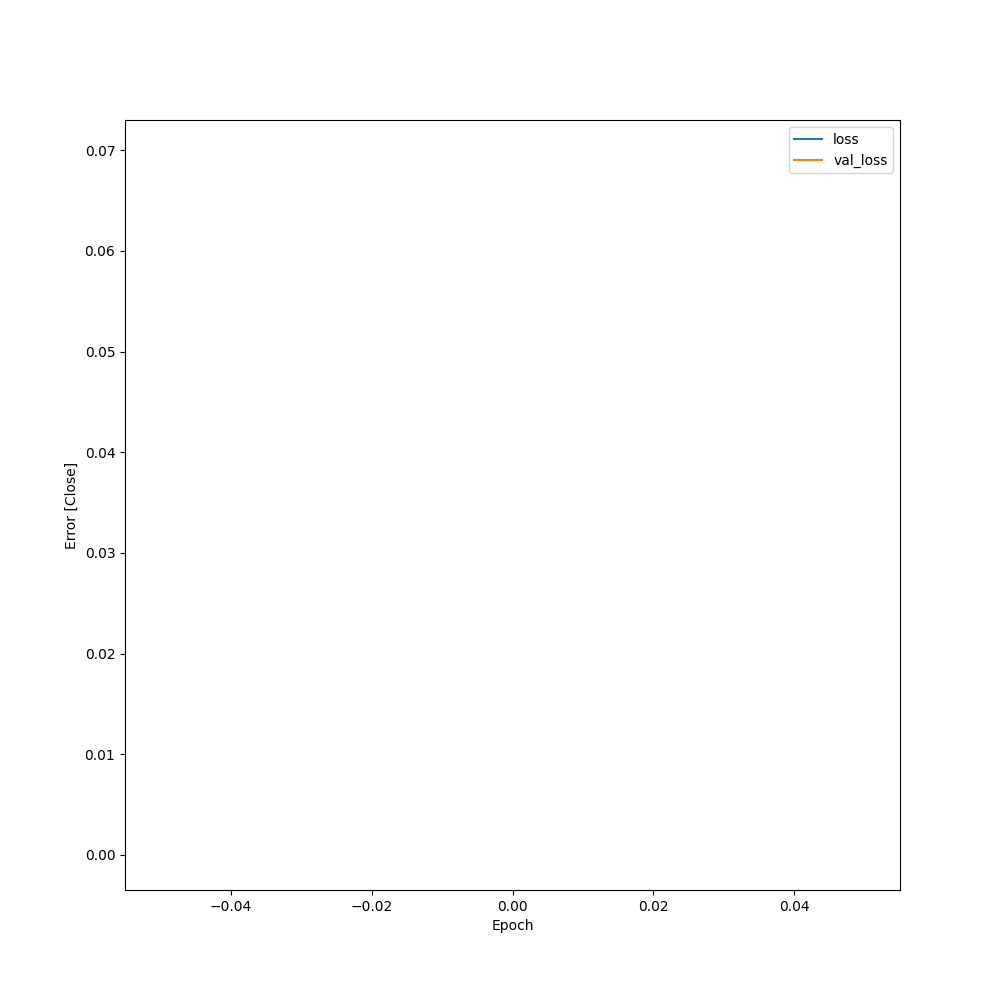
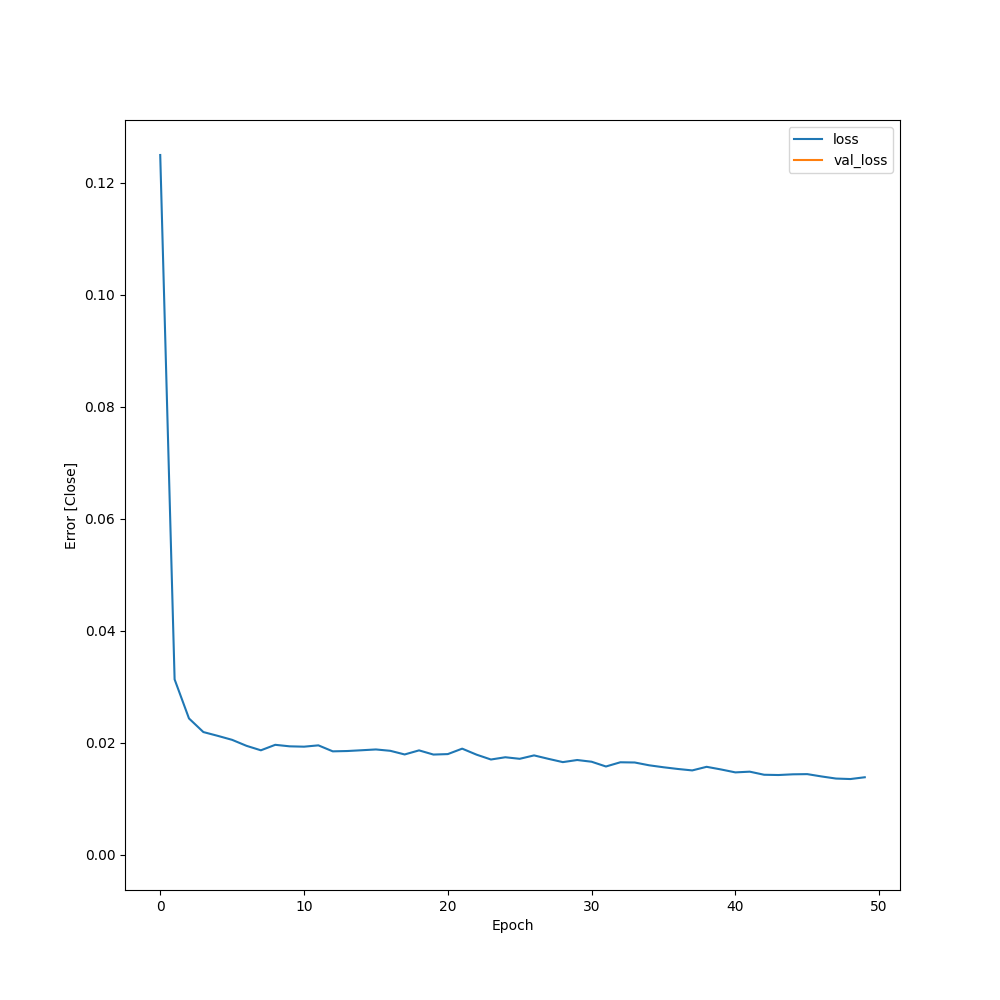
EDIT epochs and model shape

diff --git a/src/polygonapi.py b/src/polygonapi.py
@@ -39,16 +39,19 @@ def main():
         print(f"Processing pair: {pair}")
         proceed(pair)
 
-def model_1(n_steps_in, n_steps_out, n_features, units=32):
+def model_1(n_steps_in, n_steps_out, n_features, units=64):
     model = Sequential()
     model.add(LSTM(units, activation='tanh', return_sequences=True, input_shape=(n_steps_in, n_features)))
-    model.add(LSTM(units - 16, activation='tanh', return_sequences=False))
+    model.add(LSTM(units - 32, activation='tanh', return_sequences=False))
     model.add(RepeatVector(n_steps_out))
-    model.add(LSTM(units - 16, activation='tanh', return_sequences=True))
+    model.add(LSTM(units - 32, activation='tanh', return_sequences=True))
     model.add(LSTM(units, activation='tanh', return_sequences=True))
     model.add(TimeDistributed(Dense(units, activation='relu')))
+    model.add(Dropout(0.2))
     model.add(TimeDistributed(Dense(units, activation='relu')))
+    model.add(Dropout(0.2))
     model.add(TimeDistributed(Dense(units, activation='relu')))
+    model.add(Dropout(0.2))
     model.add(TimeDistributed(Dense(1, activation='linear')))
     model.build(input_shape=(n_steps_in, n_features))
     return model
@@ -289,12 +292,12 @@ def proceed(pair: str):
     # The dataset knows the number of features, e.g. 2
     n_features = X.shape[2]
     # Define model
-    model = model_1(n_steps_in, n_steps_out, n_features, units=32)
+    model = model_1(n_steps_in, n_steps_out, n_features)
     #Fit model
     opt = tf.keras.optimizers.Adam(learning_rate=0.001)
     model.compile(optimizer=opt, loss='mae')
     model.summary()
-    fit = model.fit(X, y, epochs=50, batch_size=32)
+    fit = model.fit(X, y, epochs=100, batch_size=32)
     # Plot loss
     plot_loss(fit.history['loss'], 0, pair)
     # Take n_steps_in from the last n_steps_in of the dataset
